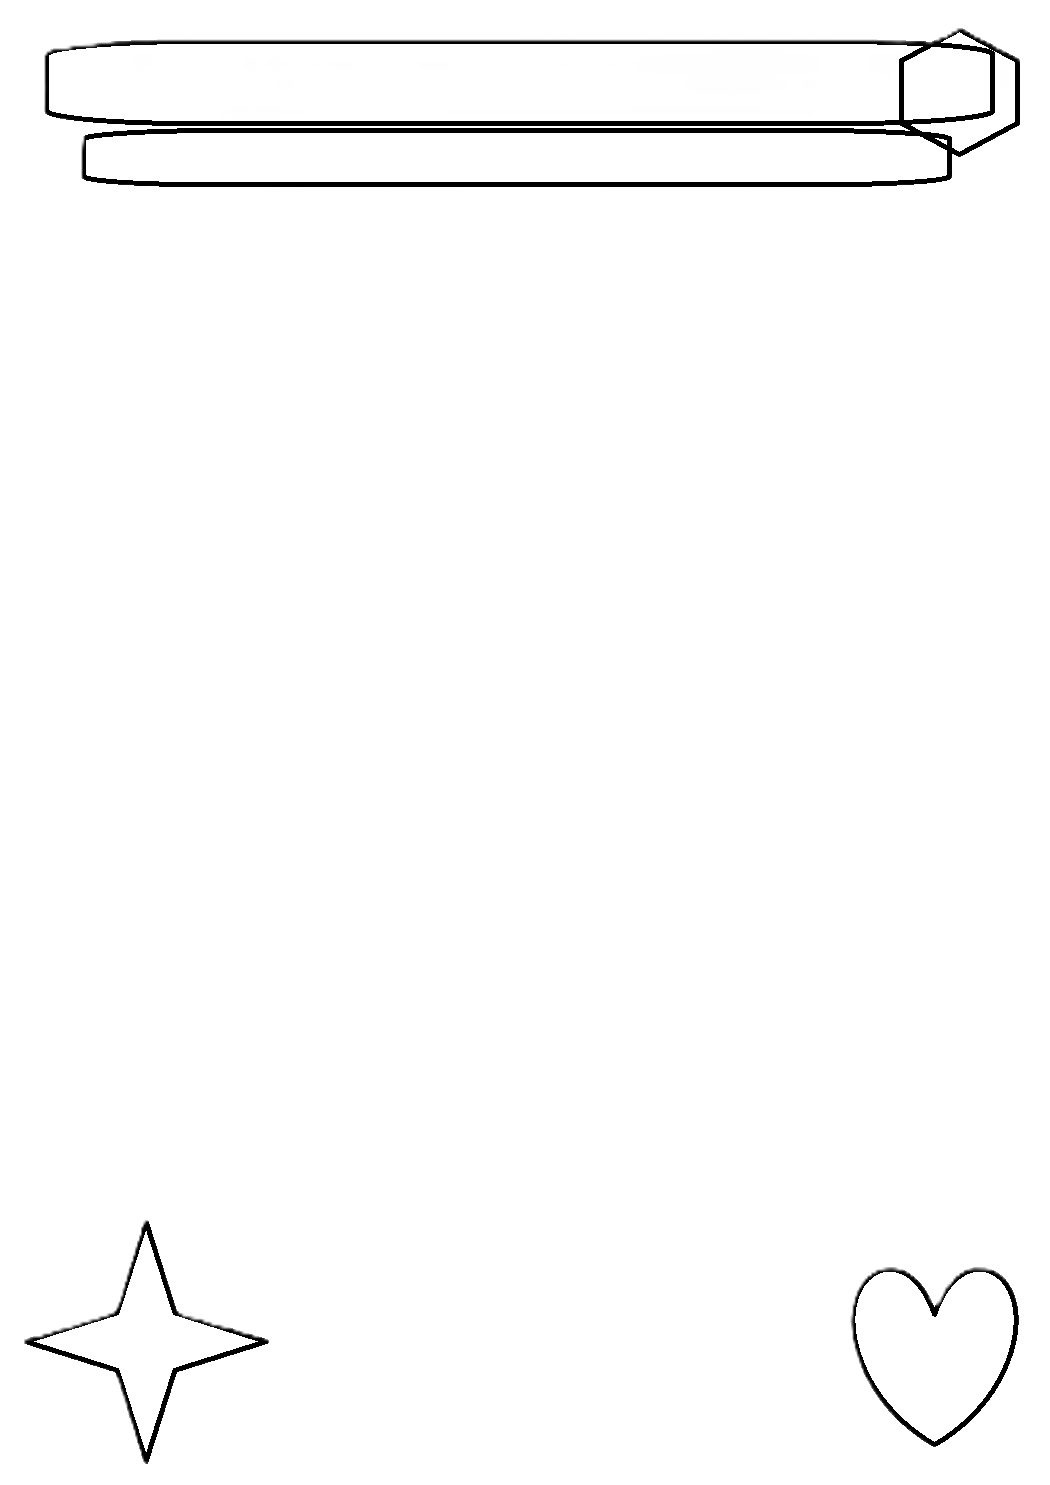
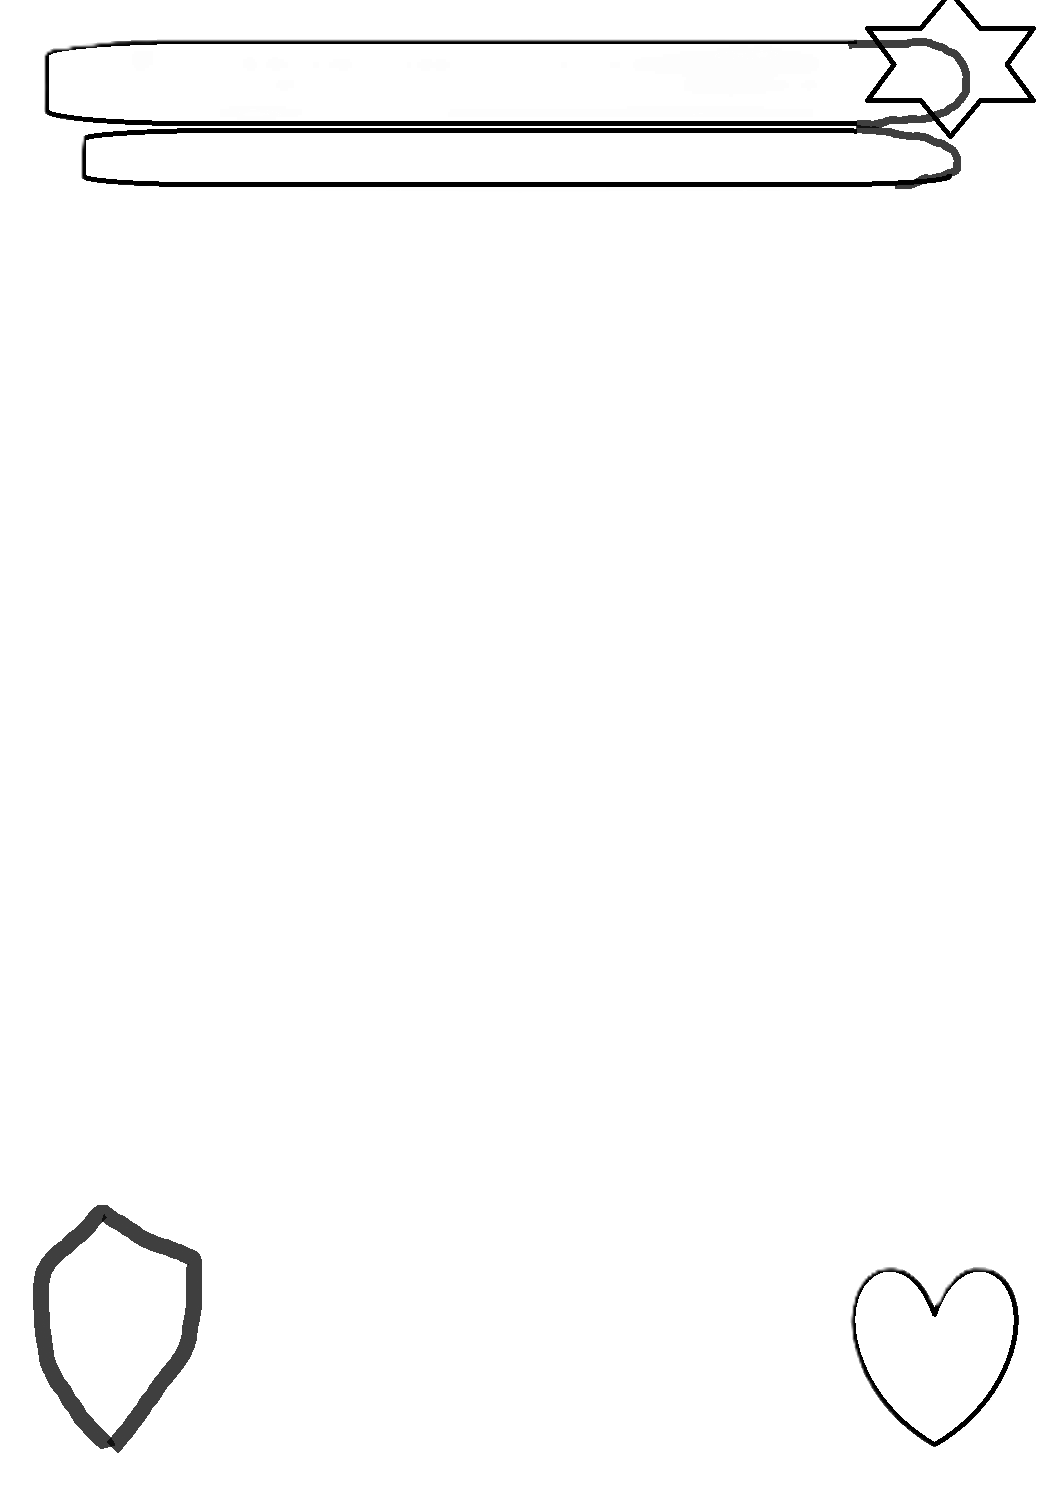
built a decent back mask

Changed region(s): [[0.0305, 0.8054, 0.2438, 0.9912], [0.8229, 0.0, 1.0, 0.1239]]

diff --git a/src/lib/cl_generator.py b/src/lib/cl_generator.py
@@ -519,6 +519,7 @@ class Cl_npc_character_sheet_generator:
         self,
         i_ls_layout_file_path: List[str],
         i_ls_mask_front_path : List[str],
+        i_ls_mask_back_path : List[str],
         i_ls_npc_illustration_path : List[str] | Path,
         i_ls_npc_json_path: List[str] | Path,
         i_ls_output_file_path: List[str] | Path,
@@ -597,6 +598,22 @@ class Cl_npc_character_sheet_generator:
 
         #draw NPC illustration on the front
         #self.g_cl_image_card_front.draw_image( cl_front_mask, (0,0), t_size_front )
+
+        #----------------------------------------------------------------------
+        #   DRAW: BACK MASK
+        #----------------------------------------------------------------------
+
+        #create an image for the NPC ilustration
+        cl_back_mask : St_image = St_image(
+            i_w_card_mm = self.g_w_card_width_mm,
+            i_h_card_mm = self.g_h_card_height_mm,
+            i_dot_per_inch = self.g_n_dots_per_inch
+        )
+
+        #load the NPC illustration and resize it
+        cl_back_mask.load_image( i_ls_mask_back_path )
+
+        self.g_cl_image_card_back.compose_image( cl_back_mask, 1.0 )
 
         #----------------------------------------------------------------------
         #   DRAW: FRONT
@@ -706,7 +723,7 @@ class Cl_npc_character_sheet_generator:
             cl_generated_image = cl_generator.generate_card(
                 i_ls_layout_file_path=i_ls_layout_file_path,
                 i_ls_mask_front_path=i_ls_mask_front_path,
-                #i_ls_mask_back_path=i_ls_mask_back_path,
+                i_ls_mask_back_path=i_ls_mask_back_path,
                 i_ls_npc_illustration_path= s_input_npc_image_path,
                 i_ls_npc_json_path = s_input_npc_json_path,
                 i_ls_output_file_path=s_output_image_path

diff --git a/src/test_q_scan_input_generate_output_card.py b/src/test_q_scan_input_generate_output_card.py
@@ -34,8 +34,8 @@ def generate_card() -> bool:
         #card layout descriptor
         i_ls_layout_file_path  = ["src", "json", "npc_layout.json"],
         #card image frame overlay
-        i_ls_mask_front_path = ["mask", "front_mask_d.png"],
-        i_ls_mask_back_path =["mask", "front_mask_d.png"] ,
+        i_ls_mask_front_path = ["mask", "front_mask_transparent_c.png"],
+        i_ls_mask_back_path =["mask", "back_mask_e.png"] ,
         #pair of image and json
         i_s_input_folder = "input",
         #where save output
